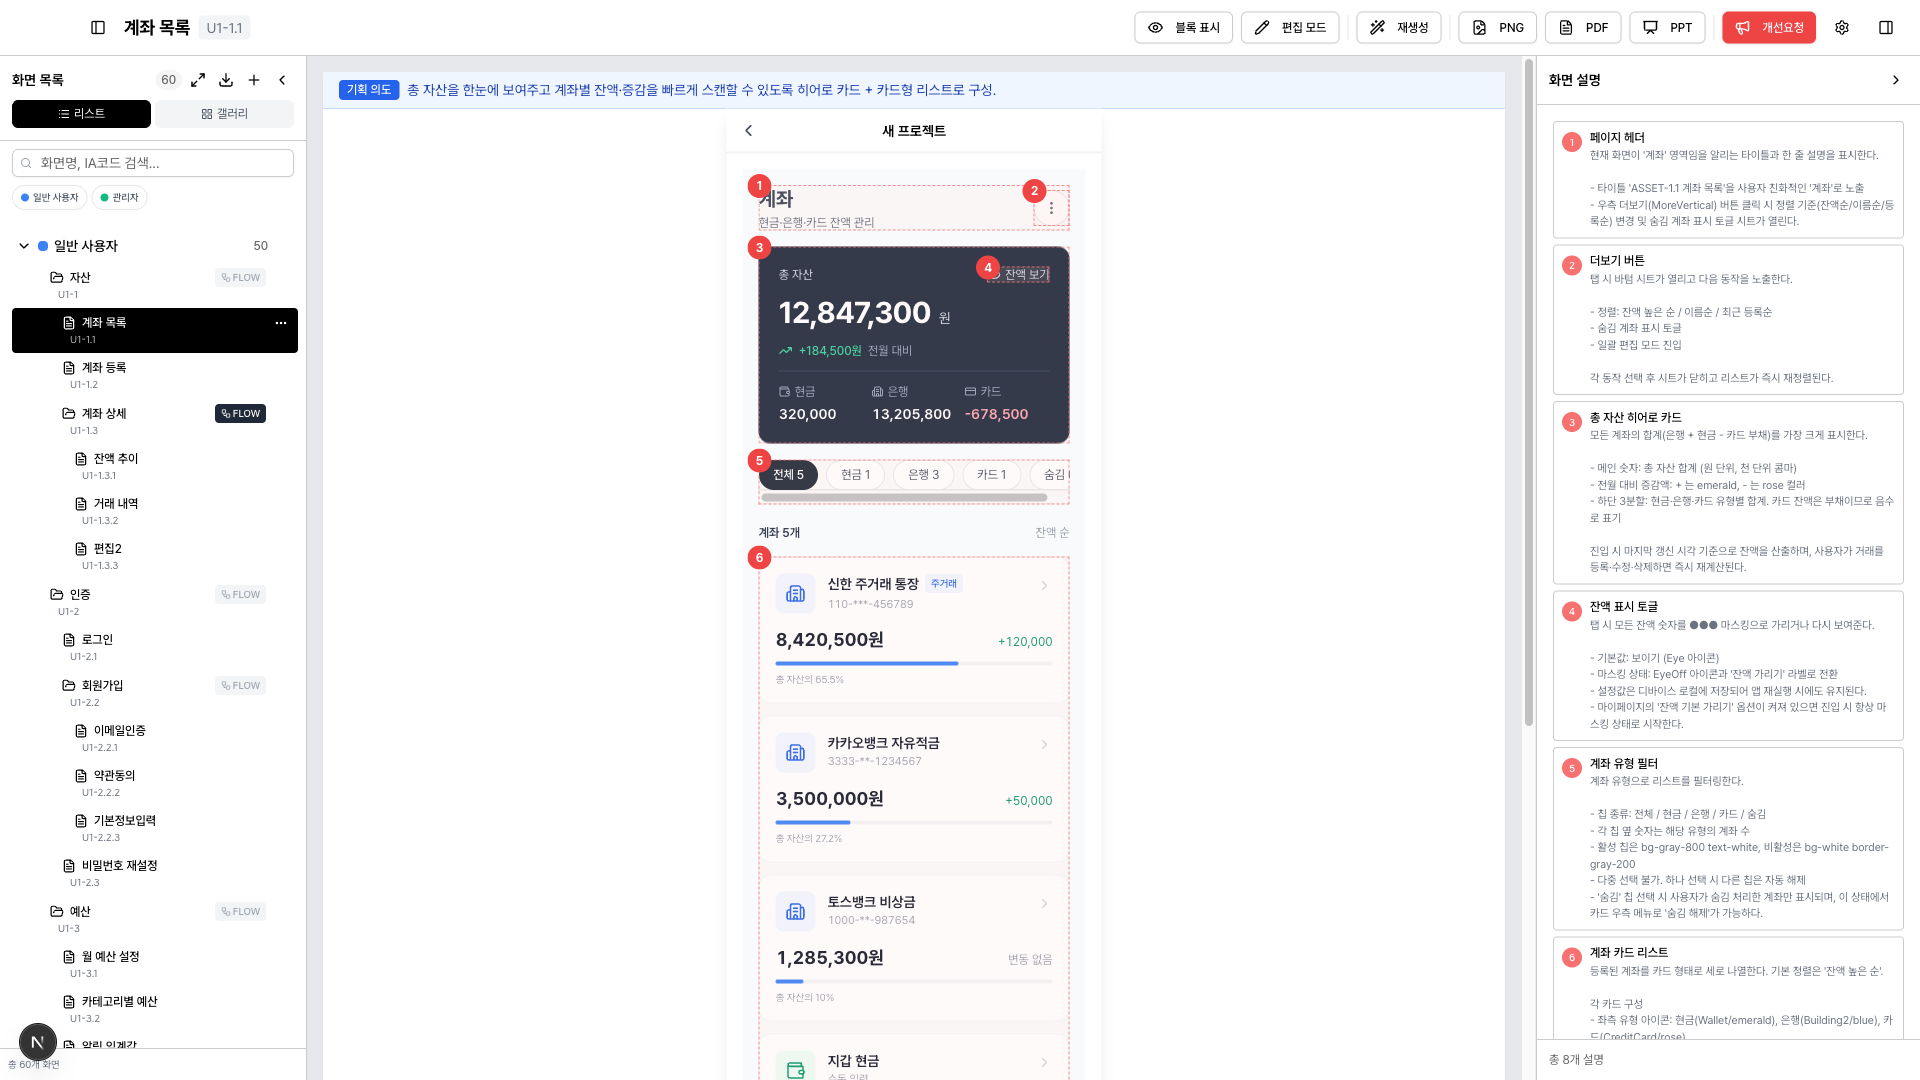
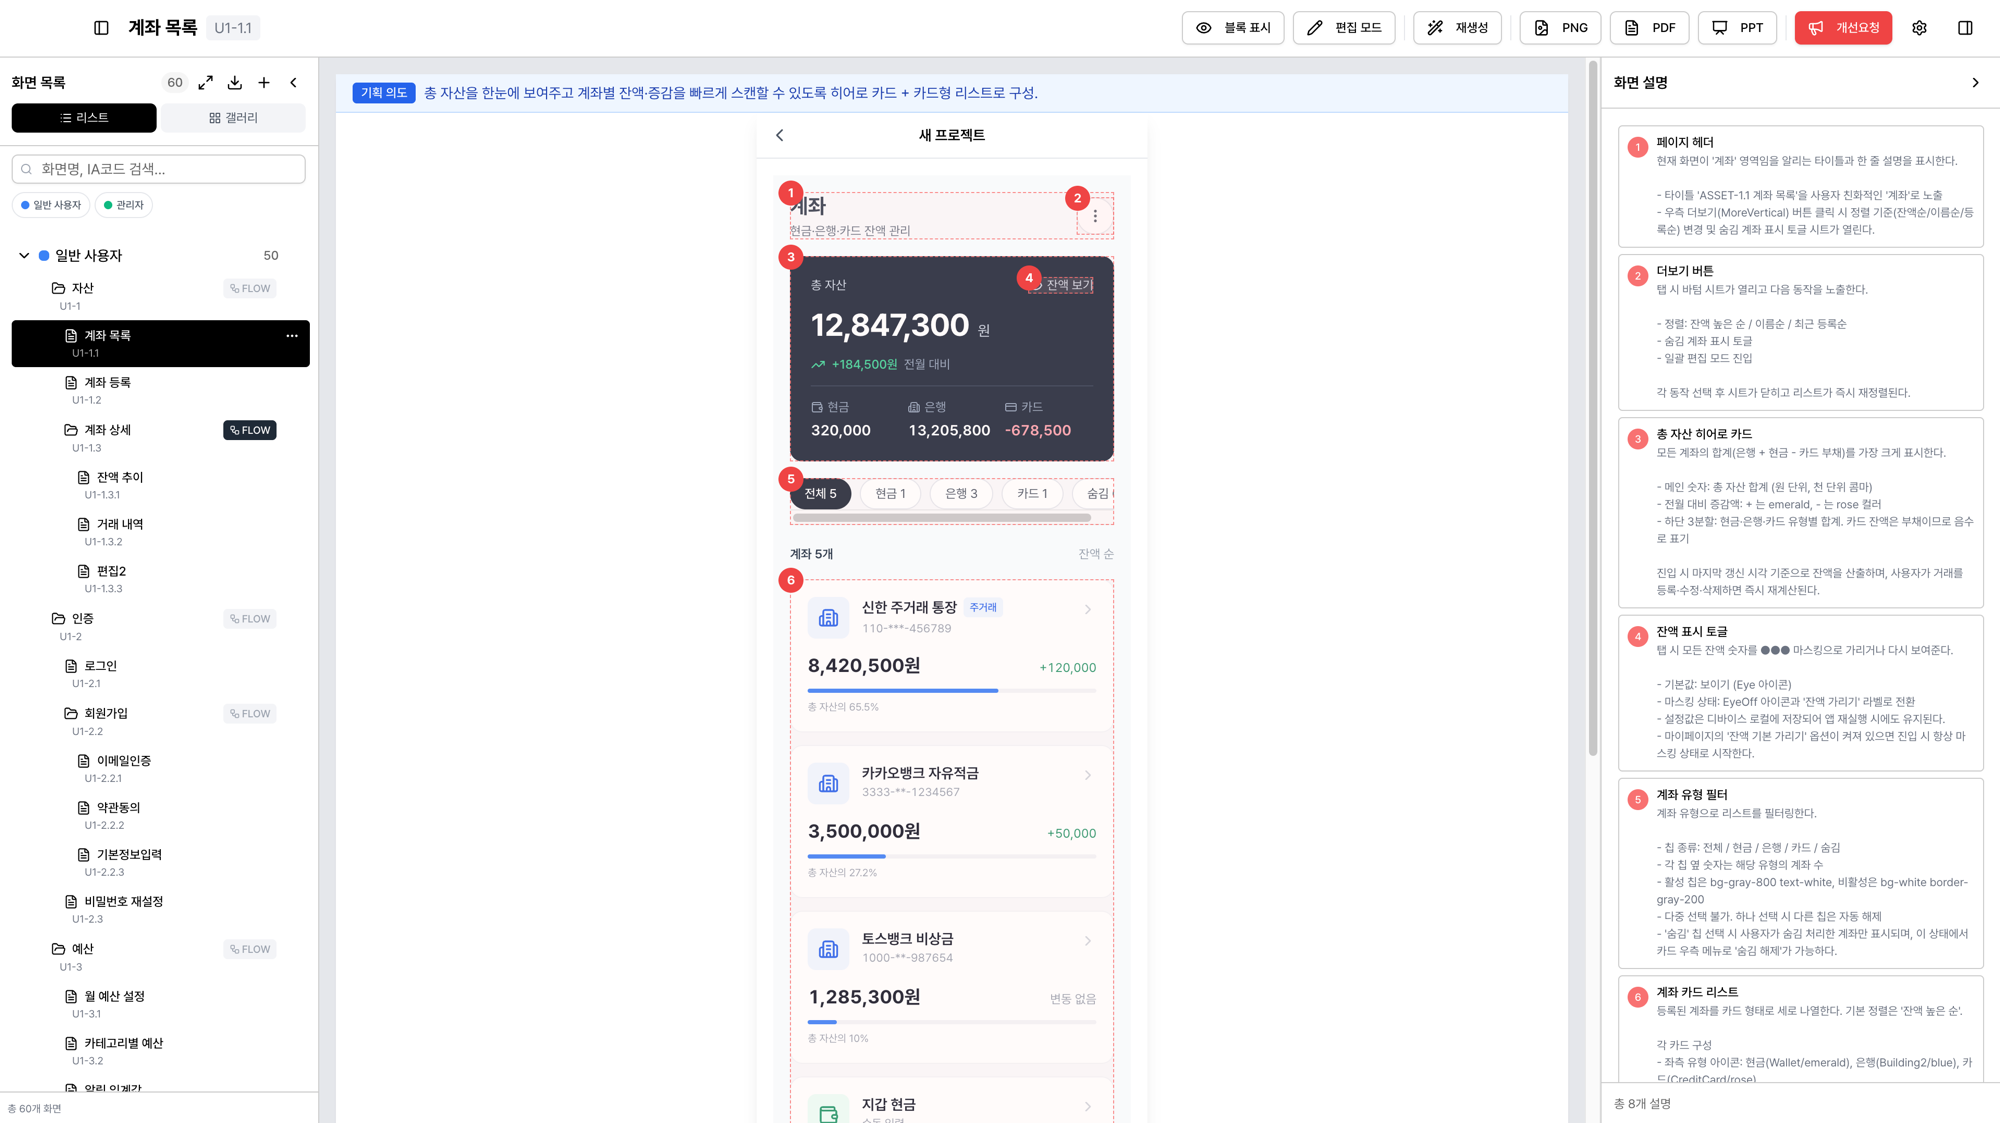
ui: 히어로 이미지를 계좌 목록 와이어프레임+어노테이션 화면으로 교체

diff --git a/index.html b/index.html
@@ -119,7 +119,7 @@
               <span class="h-3 w-3 rounded-full bg-[#28c840]"></span>
               <span class="ml-3 font-mono text-[11px] text-paper/40">Storyboard Magic</span>
             </div>
-            <img src="assets/shot-viewer.png" alt="Storyboard Magic 화면 — 와이어프레임과 어노테이션 설명, IA 화면 목록 3패널" class="block w-full" loading="eager" />
+            <img src="assets/shot-viewer.png" alt="Storyboard Magic 화면 — 와이어프레임에 번호 어노테이션 마커와 화면 설명, 좌측 IA 화면 목록" class="block w-full" loading="eager" />
           </figure>
           <div class="pointer-events-none absolute -right-6 -top-6 -z-10 h-40 w-40 rounded-full bg-accent/15 blur-2xl"></div>
         </div>